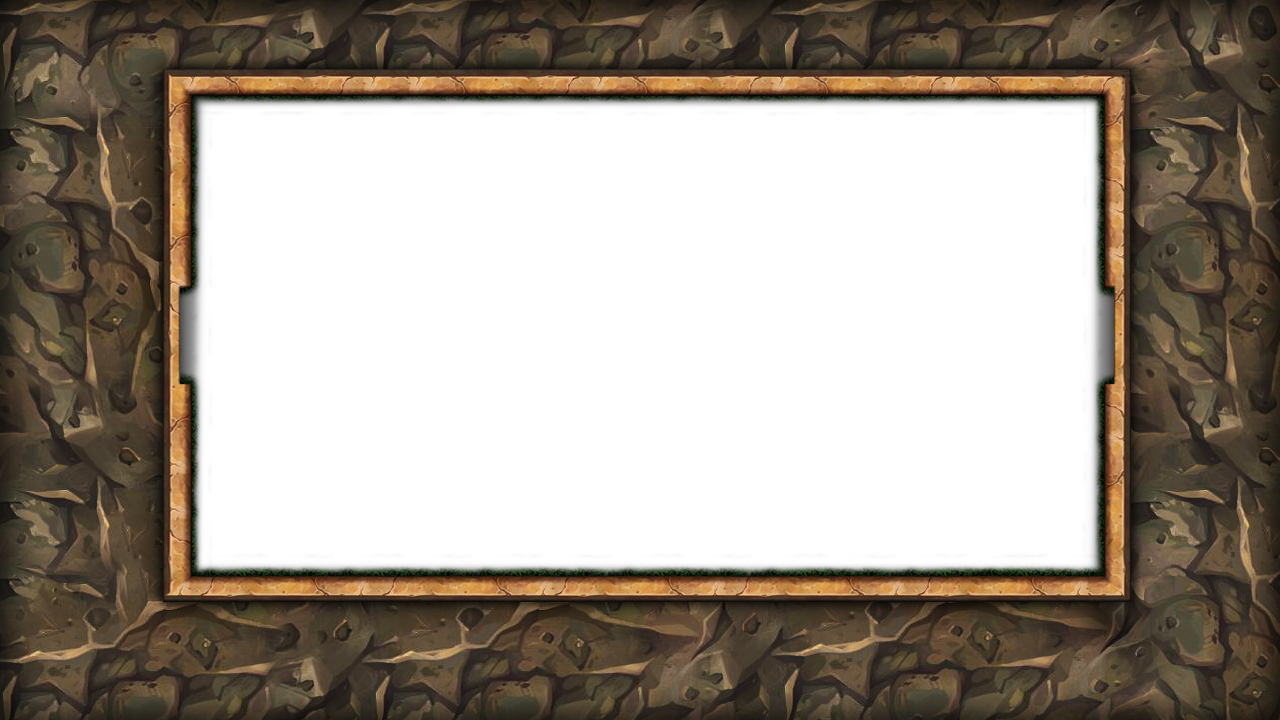
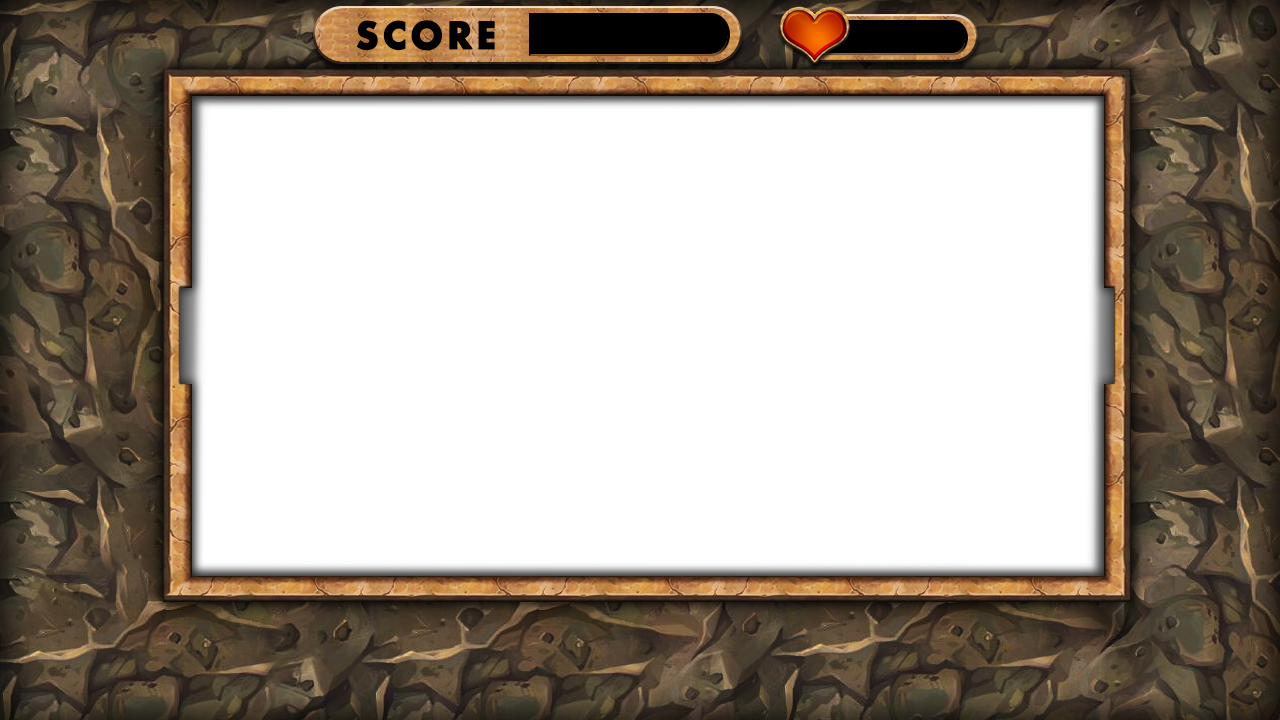
New buttons. Lives logic.

diff --git a/js/states.js b/js/states.js
@@ -5,10 +5,12 @@ function boot() {
 			game.load.spritesheet('dude', 'data/images/skull_360.png', TILEWIDTH, TILEHEIGHT);
       		game.load.spritesheet('monster', 'data/images/monster.png', TILEWIDTH, TILEHEIGHT);
 
-			game.load.spritesheet('button1', 'data/images/button1.png', 64, 64);
+			game.load.spritesheet('button1', 'data/images/button1.png', 175, 113);
 			game.load.spritesheet('tower1', 'data/images/tower1.png', TILEWIDTH, TILEHEIGHT);
-			game.load.spritesheet('button2', 'data/images/button2.png', 64, 64);
+			game.load.spritesheet('button2', 'data/images/button2.png', 175, 113);
 			game.load.spritesheet('tower2', 'data/images/tower2.png', TILEWIDTH, TILEHEIGHT);
+			game.load.spritesheet('button3', 'data/images/button3.png', 175, 113);
+			//game.load.spritesheet('tower2', 'data/images/tower2.png', TILEWIDTH, TILEHEIGHT);
 	    },
 		create: function() {
 			pathfinder = game.plugins.add(Phaser.Plugin.PathFinderPlugin);
@@ -65,15 +67,24 @@ function level1() {
 	      //game.debug.text("Mouse x: " + game.input.activePointer.position.x, 300, 92);
 	      //game.debug.text("Mouse y: " + game.input.activePointer.position.y, 300, 112);
 	      //game.debug.text("Left Button: " + game.input.activePointer.leftButton.isDown, 300, 132);
+	      game.debug.text(lives, 884, 43);
 	    },
 
 		update: function () {
-			hud.update();
-			this.enemies.forEach(a => a.update());
+			if(lives<=0) setTimeout(function() {game.state.start('gameover');}, 1000);
 		}
+	};
+}
+
+function gameover() {
+	return {
+		create: function() {
+			game.stage.backgroundColor = '#00FFFF';
+		},
 	};
 }
 
 game.state.add('boot', boot());
 game.state.add('level1', level1());
+game.state.add('gameover', gameover());
 game.state.start('boot');

diff --git a/js/entities.js b/js/entities.js
@@ -57,7 +57,7 @@ function Enemy(x, y, type) {
 			this.path = path;
 	}).bind(enemy));
 
-	enemy.update = (function() {
+	enemy.update = function() {
 
 		if(this.props.health < 0) {
 			this.position.y = 50000;
@@ -90,17 +90,22 @@ function Enemy(x, y, type) {
         }
         var dist = 0.1 * Math.sqrt((distx*distx) + (disty*disty));
         this.body.velocity.x = this.props.speed * (distx/dist); // ;
-        this.body.velocity.y = (disty/dist); //this.props.speed * ;
+        this.body.velocity.y = this.props.speed *(disty/dist);  ;
 
 				var direction = getDirection(this);
 				//console.log(direction);
 				this.animations.play(direction);
 
       } else {
-        // Stop
-
-        this.body.velocity.x = 0;
-        this.body.velocity.y = 0;
+        // Reached end?
+        var state = game.state.getCurrentState();
+        if(state.endTile.x == Math.round(this.body.position.x/TILEWIDTH) && state.endTile.y == Math.round(this.body.position.y/TILEHEIGHT)){
+          // Stop
+          this.body.velocity.x = 0;
+          this.body.velocity.y = 0;
+          this.destroy();
+          lives--;
+        }
       }
 
     }
@@ -118,6 +123,7 @@ function Enemy(x, y, type) {
 	enemy.reduceHealth = (function(h) {
 		this.props.health -= h;
 	}).bind(enemy);
+
 	return enemy;
 }
 
@@ -207,9 +213,11 @@ function Tower(x, y, type) {
 		this.direction += this.props.speed;
 		if(this.direction > Math.PI) this.direction -= 2*Math.PI;
 
-	this.findEnemiesInRange = function(enemys) {
+  	this.findEnemiesInRange = function(enemys) {
 
-	}
+  	}
+
+  }
 
 	return tower;
 

diff --git a/js/game.js b/js/game.js
@@ -5,13 +5,15 @@ var game = new Phaser.Game(1280, 720, Phaser.AUTO, '');
 var pathfinder;
 var grid;
 var hud;
+var lives = 20;
 
 function HUDLayer() {
   hud = game.add.group();
   hud.activeBtn = null;
 
-  hud.create(game.width/2, game.height - 60, 'button1');
-  hud.create(game.width/2 + 70, game.height - 60, 'button2');
+  hud.create(game.width/2 - 175 - 30 - 83, game.height - 110, 'button1');
+  hud.create(game.width/2 - 83, game.height - 110, 'button2');
+  hud.create(game.width/2 + 30 + 83, game.height - 110, 'button3');
   hud.forEach(function(btn){ btn.inputEnabled = true });
 
   hud.update = function(){
